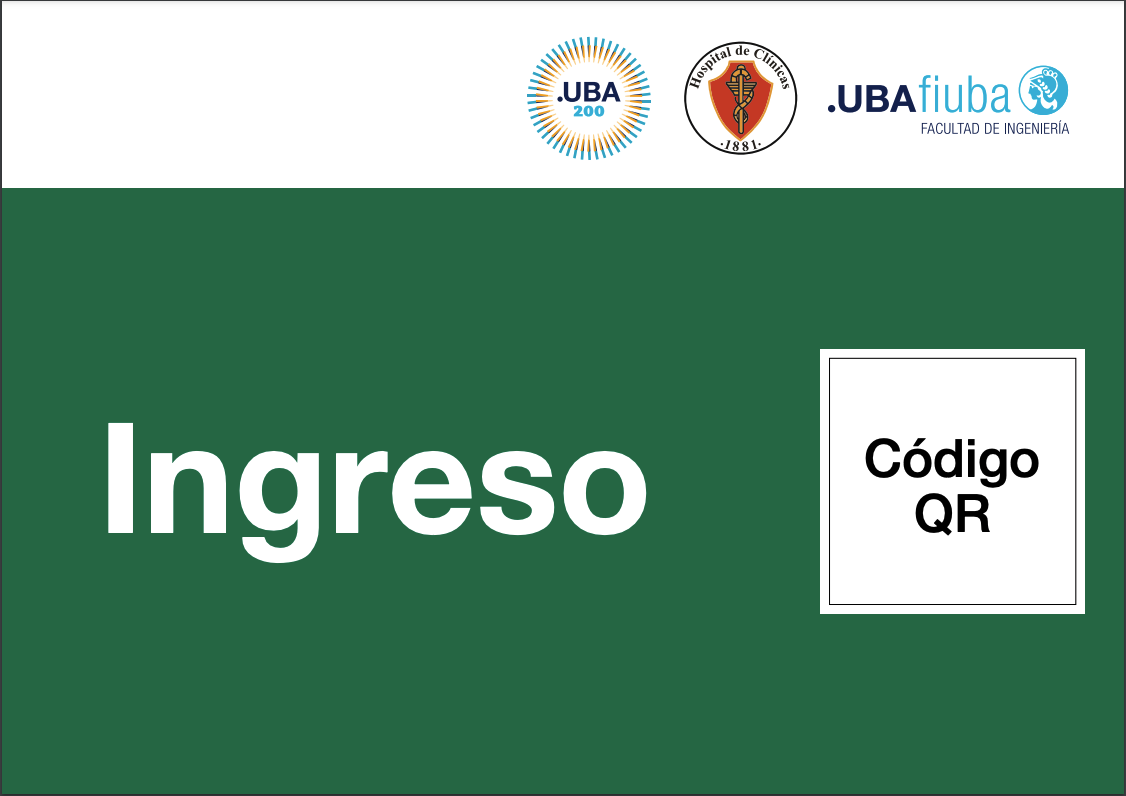
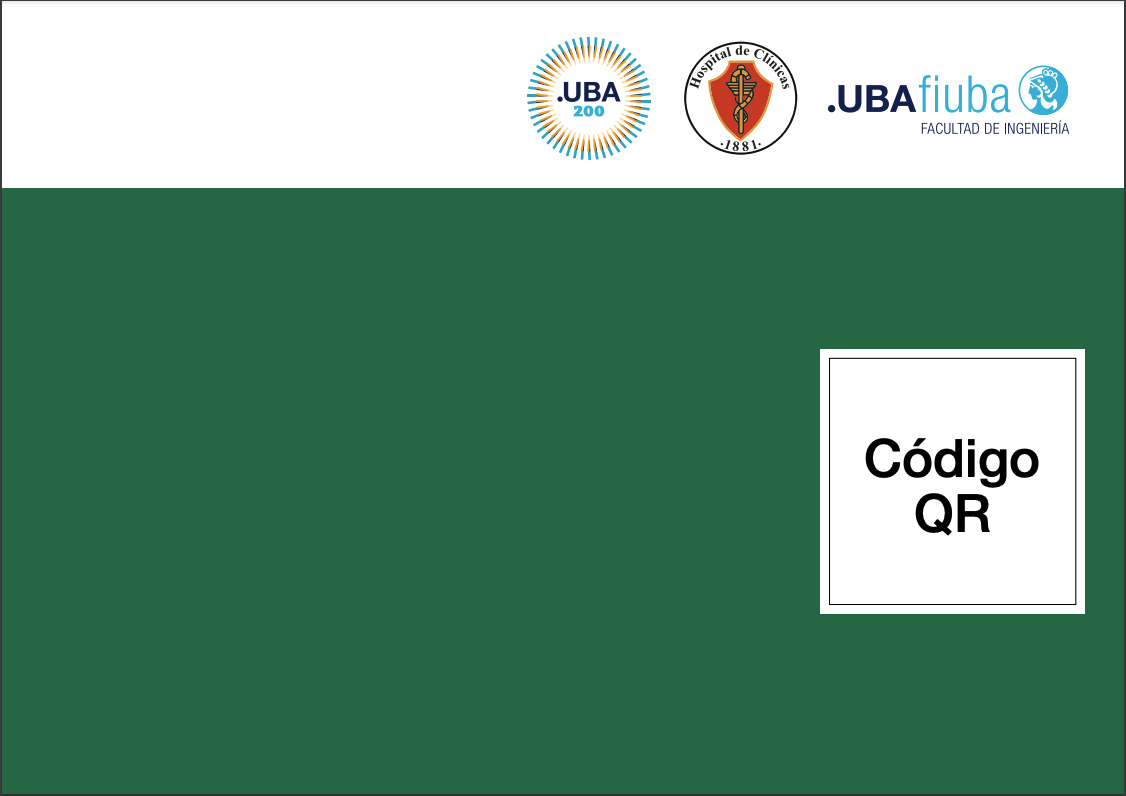
add qr and fix few things

Changed region(s): [[0.0933, 0.5126, 0.5906, 0.7236]]

diff --git a/src/models/handlers/EstablishmentHandler.js b/src/models/handlers/EstablishmentHandler.js
@@ -88,9 +88,11 @@ module.exports = function EstablishmentHandler() {
     let PDFInfo = [];
     for (const space_id of establishment.spaces) {
       let current_space = await SpaceHandler().findSpace(space_id);
-      PDFInfo.push(getQRInfo(establishment.name, current_space.name, space_id, false, current_space.estimatedVisitDuration));
       if (current_space.hasExit) {
-        PDFInfo.push(getQRInfo(establishment.name, current_space.name, space_id, true, current_space.estimatedVisitDuration));
+        PDFInfo.push(getQRInfo(establishment.name, current_space.name, space_id, true, false, current_space.estimatedVisitDuration));
+        PDFInfo.push(getQRInfo(establishment.name, current_space.name, space_id, true, true, current_space.estimatedVisitDuration));
+      } else {
+        PDFInfo.push(getQRInfo(establishment.name, current_space.name, space_id, false, false, current_space.estimatedVisitDuration));
       }
     }
     let PDFData = { filename: `CT_QR_${establishment.name}.pdf`, PDFInfo };
@@ -100,9 +102,11 @@ module.exports = function EstablishmentHandler() {
   const getPDFDataForSingleSpace = async (establishment_name, space_id) => {
     let PDFInfo = [];
     let current_space = await SpaceHandler().findSpace(space_id);
-    PDFInfo.push(getQRInfo(establishment_name, current_space.name, space_id, false, current_space.estimatedVisitDuration));
     if (current_space.hasExit) {
-      PDFInfo.push(getQRInfo(establishment_name, current_space.name, space_id, true, current_space.estimatedVisitDuration));
+      PDFInfo.push(getQRInfo(establishment_name, current_space.name, space_id, true, false, current_space.estimatedVisitDuration));
+      PDFInfo.push(getQRInfo(establishment_name, current_space.name, space_id, true, true, current_space.estimatedVisitDuration));
+    } else {
+      PDFInfo.push(getQRInfo(establishment_name, current_space.name, space_id, false, false, current_space.estimatedVisitDuration));
     }
     let PDFData = { filename: `CT_QR_${establishment_name}_${current_space.name}.pdf`, PDFInfo };
     return PDFData;

diff --git a/src/services/PDFGenerator.js b/src/services/PDFGenerator.js
@@ -13,6 +13,7 @@ module.exports = function PDFGenerator() {
   const existsPromise = util.promisify(fs.exists);
   const mkdirPromise = util.promisify(fs.mkdir);
   const rmdirPromise = util.promisify(fs.rmdir);
+  const linesSize = 12;
 
   const generateQRCode = async (filepath, code) => {
     return new Promise(async (res, rej) => {
@@ -61,15 +62,16 @@ module.exports = function PDFGenerator() {
 
         doc.image(backgroundTemplateDirectory, {fit: [800, 650], align: 'left', valign: 'top'} );
         // Embed a font, set the font size, and render some text
-        doc.fontSize(64)
-          .text(title, 80, 250, { width: 500, height: 600 });
+        doc.fontSize(getTitleFontSize(title.length))
+          .fillColor('white')
+          .text(title, 50, getTitlePosition(title.length), { width: 450, height: 600 });
 
         // Add an image, constrain it to a given size, and center it vertically and horizontally
-        //doc.image(tmpQRFile, {
-        //  fit: [440, 350],
-        //  align: 'center',
-        //  valign: 'center'
-        //});
+        doc.image(tmpQRFile, 500, 225, {
+          fit: [300, 300],
+          align: 'center',
+          valign: 'center'
+        });
       }
 
       let deletePromises = tmp_files.map(x => deleteFile(x.tmpFile));
@@ -77,6 +79,26 @@ module.exports = function PDFGenerator() {
       await rmdirPromise(tmpQRDirectory);
       return doc.end();
   };
+
+  const getTitleFontSize = (length) => {
+    if (length >= linesSize * 2) {
+      return 54;
+    }
+    return 74;
+  }
+
+  const getTitlePosition = (length) => {
+    if (length <= linesSize * 1) {
+      return 330;
+    }
+    if (length <= linesSize * 2) {
+      return 290;
+    }
+    if (length <= linesSize * 3) {
+      return 220;
+    }
+    return 270;
+  }
 
   return {
     generateQRCode,

diff --git a/src/utils/qr.js b/src/utils/qr.js
@@ -1,6 +1,6 @@
 module.exports = {
-    getQRInfo: (establishmentName, spaceName, id, isExit, estimatedVisitDuration) => ({
-  title: `${spaceName} (${isExit ? 'Salida' : 'Entrada'})`,
+    getQRInfo: (establishmentName, spaceName, id, hasExit, isExit, estimatedVisitDuration) => ({
+  title: `${spaceName.length > 40 ? spaceName.substring(0,40) + '...' : spaceName} ${hasExit ? (isExit ? '(Salida)' : '(Entrada)') : ''}`,
   code: { name: establishmentName, space: spaceName, id: id.toString(), isExit, estimatedVisitDuration }
 })
 };
